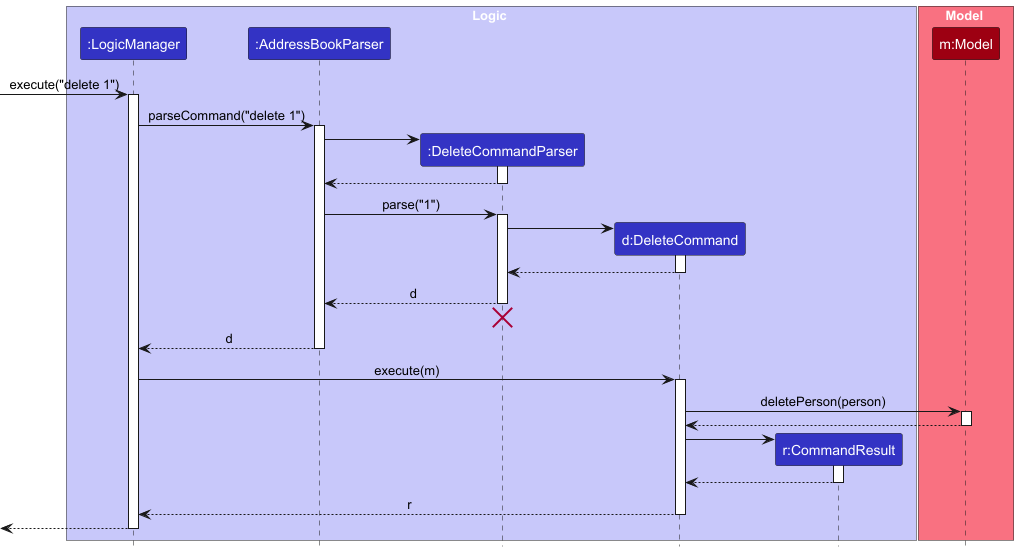
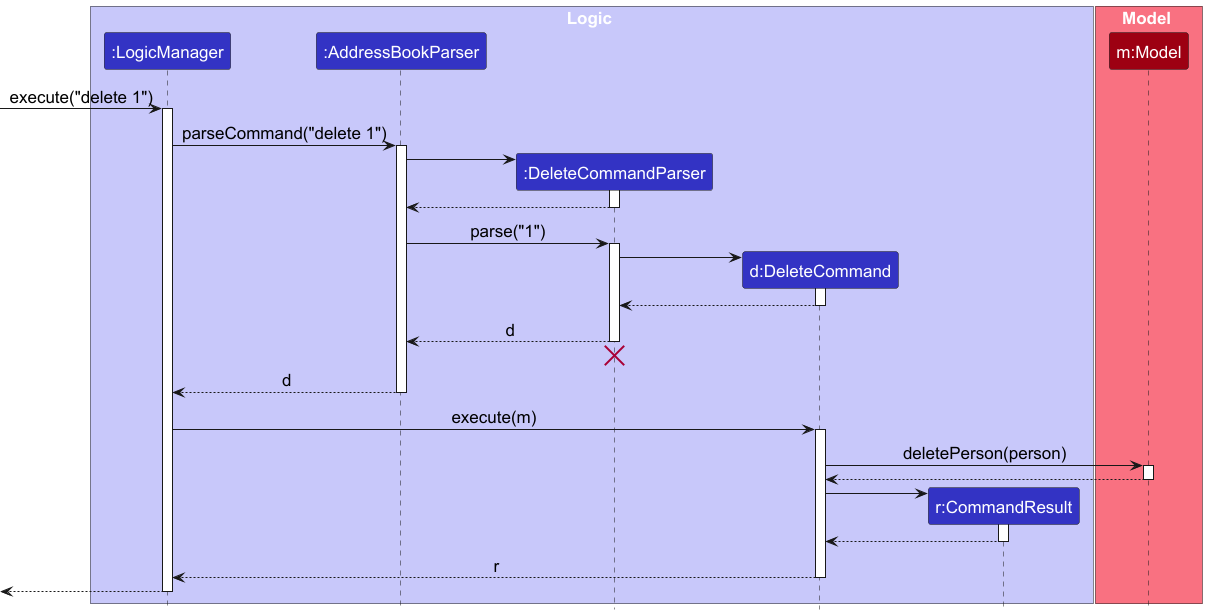
Make DG diagram text bigger

Changed region(s): [[0.0, 0.0, 1.0, 0.9855], [0.3959, 0.5236, 0.4263, 0.5543]]

diff --git a/docs/DeveloperGuide.md b/docs/DeveloperGuide.md
@@ -291,7 +291,7 @@ Then, we set the `currentCommandIndex` to be the size of the arraylist, anticipa
 
 :information_source: **Note:** CommandTextHistory will store commands that were unsuccessful as well.
 
-These operations are exposed in the `Model` interface as `Model#addCommandTextToHistory(String commandText)`, `Model#getPreviousCommandTextFromHistory()` and `Model#getNextCommandTextFromHistory()` respectively.
+These operations are exposed in the `Logic` interface as `Logic#addCommandTextToHistory(String commandText)`, `Logic#getPreviousCommandTextFromHistory()` and `Logic#getNextCommandTextFromHistory()` respectively.
 
 The following sequence diagram shows how the user can get previous command:
 ![CommandTextHistorySequenceDiagram](images/CommandTextHistorySequenceDiagram.png)
